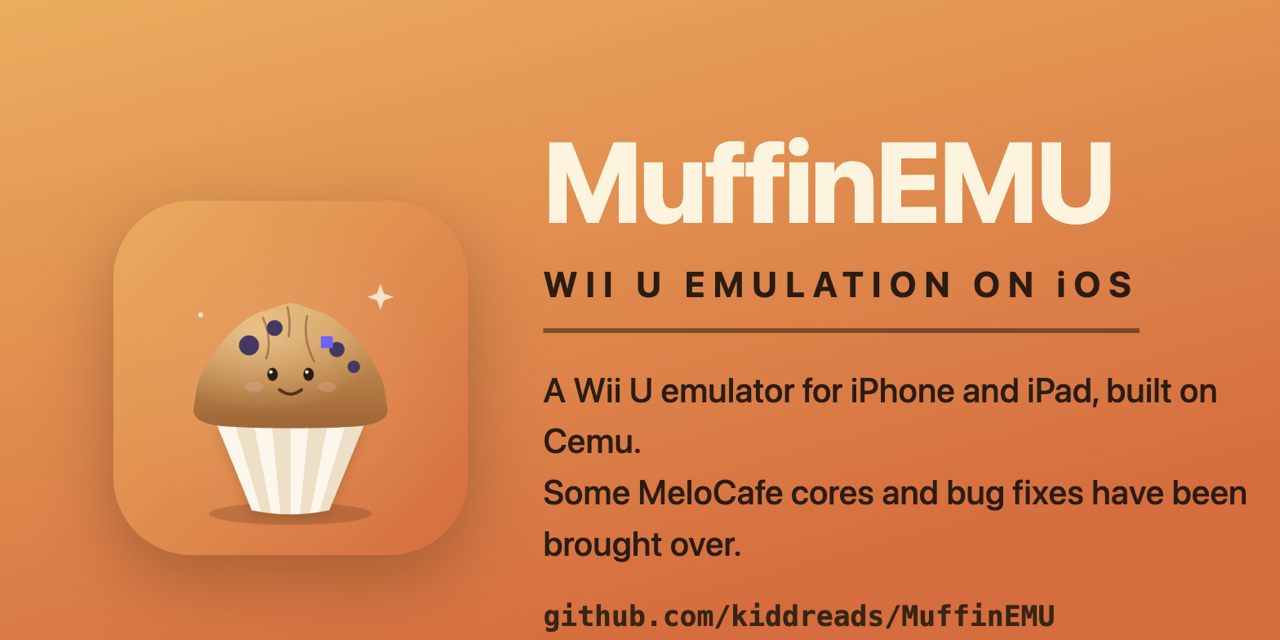
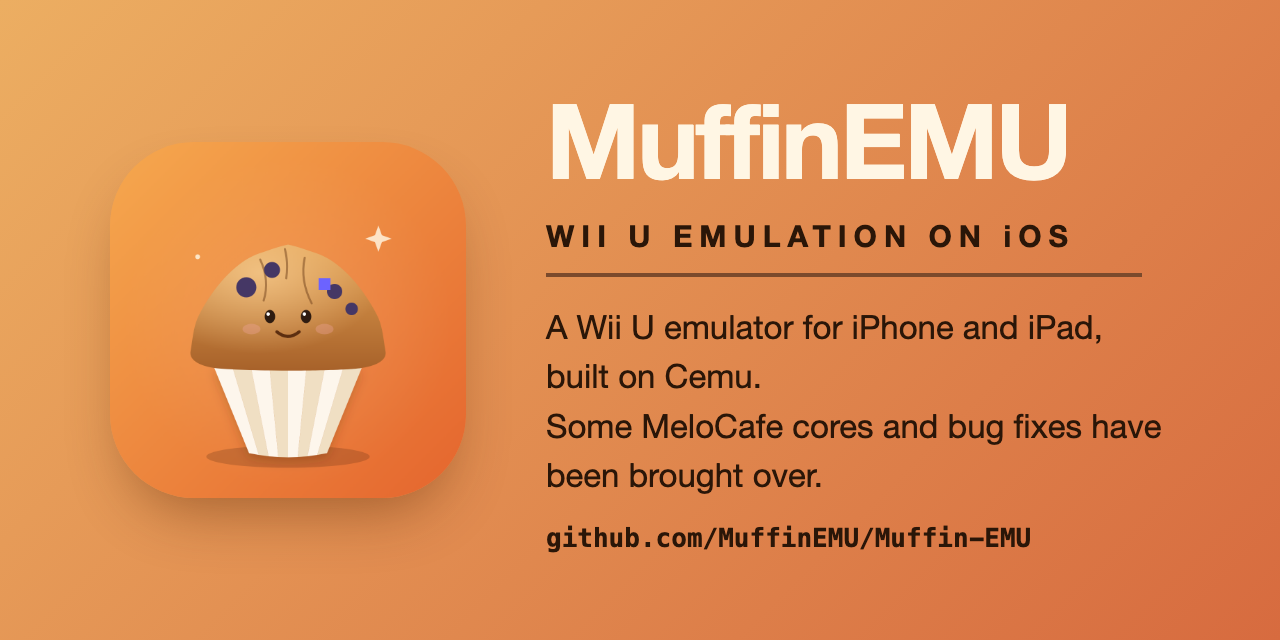
Link preview image and alt text: drop the old repository URL, describe the images
The social preview image still showed github.com/kiddreads/MuffinEMU. It now shows
github.com/MuffinEMU/Muffin-EMU, and the og/twitter image alt text and the README
screenshot alts describe what is in each image.

Release-note: skip

diff --git a/docs/index.html b/docs/index.html
@@ -17,12 +17,12 @@
 <meta property="og:image" content="https://muffinemu.github.io/MuffinEMU/social-preview.png">
 <meta property="og:image:width" content="1280">
 <meta property="og:image:height" content="640">
-<meta property="og:image:alt" content="MuffinEMU, Wii U emulation on iOS: a Wii U emulator for iPhone and iPad, built on Cemu.">
+<meta property="og:image:alt" content="The MuffinEMU muffin icon beside the title "MuffinEMU, Wii U emulation on iOS" and the line "A Wii U emulator for iPhone and iPad, built on Cemu."">
 <meta name="twitter:card" content="summary_large_image">
 <meta name="twitter:title" content="MuffinEMU — Wii U emulator for iPhone and iPad (official site)">
 <meta name="twitter:description" content="MuffinEMU is a free, open-source Wii U emulator for iPhone and iPad, based on Cemu. This is the official site: install it with SideStore, AltStore or TrollStore.">
 <meta name="twitter:image" content="https://muffinemu.github.io/MuffinEMU/social-preview.png">
-<meta name="twitter:image:alt" content="MuffinEMU, Wii U emulation on iOS: a Wii U emulator for iPhone and iPad, built on Cemu.">
+<meta name="twitter:image:alt" content="The MuffinEMU muffin icon beside the title "MuffinEMU, Wii U emulation on iOS" and the line "A Wii U emulator for iPhone and iPad, built on Cemu."">
 <link rel="sitemap" type="application/xml" title="Sitemap" href="https://muffinemu.github.io/MuffinEMU/sitemap.xml">
 <!-- Search engine verification. Google Search Console: add a URL-prefix property for
      https://muffinemu.github.io/MuffinEMU/, choose "HTML tag", and paste its

diff --git a/docs/docs/installation.html b/docs/docs/installation.html
@@ -17,12 +17,12 @@
 <meta property="og:image" content="https://muffinemu.github.io/MuffinEMU/social-preview.png">
 <meta property="og:image:width" content="1280">
 <meta property="og:image:height" content="640">
-<meta property="og:image:alt" content="MuffinEMU, Wii U emulation on iOS: a Wii U emulator for iPhone and iPad, built on Cemu.">
+<meta property="og:image:alt" content="The MuffinEMU muffin icon beside the title "MuffinEMU, Wii U emulation on iOS" and the line "A Wii U emulator for iPhone and iPad, built on Cemu."">
 <meta name="twitter:card" content="summary_large_image">
 <meta name="twitter:title" content="MuffinEMU installation guide — Wii U emulator for iPhone and iPad">
 <meta name="twitter:description" content="How to install MuffinEMU, the Wii U emulator for iPhone and iPad: SideStore, AltStore, LiveContainer or TrollStore, JIT requirements, keys.txt, and building from source.">
 <meta name="twitter:image" content="https://muffinemu.github.io/MuffinEMU/social-preview.png">
-<meta name="twitter:image:alt" content="MuffinEMU, Wii U emulation on iOS: a Wii U emulator for iPhone and iPad, built on Cemu.">
+<meta name="twitter:image:alt" content="The MuffinEMU muffin icon beside the title "MuffinEMU, Wii U emulation on iOS" and the line "A Wii U emulator for iPhone and iPad, built on Cemu."">
 <link rel="sitemap" type="application/xml" title="Sitemap" href="https://muffinemu.github.io/MuffinEMU/sitemap.xml">
 <script type="application/ld+json">
 {

diff --git a/docs/docs/troubleshooting.html b/docs/docs/troubleshooting.html
@@ -17,12 +17,12 @@
 <meta property="og:image" content="https://muffinemu.github.io/MuffinEMU/social-preview.png">
 <meta property="og:image:width" content="1280">
 <meta property="og:image:height" content="640">
-<meta property="og:image:alt" content="MuffinEMU, Wii U emulation on iOS: a Wii U emulator for iPhone and iPad, built on Cemu.">
+<meta property="og:image:alt" content="The MuffinEMU muffin icon beside the title "MuffinEMU, Wii U emulation on iOS" and the line "A Wii U emulator for iPhone and iPad, built on Cemu."">
 <meta name="twitter:card" content="summary_large_image">
 <meta name="twitter:title" content="MuffinEMU troubleshooting — Wii U emulator for iPhone and iPad">
 <meta name="twitter:description" content="MuffinEMU troubleshooting for iPhone and iPad: encrypted Wii U games not launching, JIT not attaching, save states refusing to load, TV output, and logs for a bug report.">
 <meta name="twitter:image" content="https://muffinemu.github.io/MuffinEMU/social-preview.png">
-<meta name="twitter:image:alt" content="MuffinEMU, Wii U emulation on iOS: a Wii U emulator for iPhone and iPad, built on Cemu.">
+<meta name="twitter:image:alt" content="The MuffinEMU muffin icon beside the title "MuffinEMU, Wii U emulation on iOS" and the line "A Wii U emulator for iPhone and iPad, built on Cemu."">
 <link rel="sitemap" type="application/xml" title="Sitemap" href="https://muffinemu.github.io/MuffinEMU/sitemap.xml">
 <script type="application/ld+json">
 {

diff --git a/docs/docs/index.html b/docs/docs/index.html
@@ -17,12 +17,12 @@
 <meta property="og:image" content="https://muffinemu.github.io/MuffinEMU/social-preview.png">
 <meta property="og:image:width" content="1280">
 <meta property="og:image:height" content="640">
-<meta property="og:image:alt" content="MuffinEMU, Wii U emulation on iOS: a Wii U emulator for iPhone and iPad, built on Cemu.">
+<meta property="og:image:alt" content="The MuffinEMU muffin icon beside the title "MuffinEMU, Wii U emulation on iOS" and the line "A Wii U emulator for iPhone and iPad, built on Cemu."">
 <meta name="twitter:card" content="summary_large_image">
 <meta name="twitter:title" content="MuffinEMU documentation — Wii U emulator for iPhone and iPad">
 <meta name="twitter:description" content="MuffinEMU documentation: installation, features, screen layout, save states, controls, themes, troubleshooting and FAQ for the Wii U emulator for iPhone and iPad.">
 <meta name="twitter:image" content="https://muffinemu.github.io/MuffinEMU/social-preview.png">
-<meta name="twitter:image:alt" content="MuffinEMU, Wii U emulation on iOS: a Wii U emulator for iPhone and iPad, built on Cemu.">
+<meta name="twitter:image:alt" content="The MuffinEMU muffin icon beside the title "MuffinEMU, Wii U emulation on iOS" and the line "A Wii U emulator for iPhone and iPad, built on Cemu."">
 <link rel="sitemap" type="application/xml" title="Sitemap" href="https://muffinemu.github.io/MuffinEMU/sitemap.xml">
 <script type="application/ld+json">
 {

diff --git a/docs/docs/features.html b/docs/docs/features.html
@@ -17,12 +17,12 @@
 <meta property="og:image" content="https://muffinemu.github.io/MuffinEMU/social-preview.png">
 <meta property="og:image:width" content="1280">
 <meta property="og:image:height" content="640">
-<meta property="og:image:alt" content="MuffinEMU, Wii U emulation on iOS: a Wii U emulator for iPhone and iPad, built on Cemu.">
+<meta property="og:image:alt" content="The MuffinEMU muffin icon beside the title "MuffinEMU, Wii U emulation on iOS" and the line "A Wii U emulator for iPhone and iPad, built on Cemu."">
 <meta name="twitter:card" content="summary_large_image">
 <meta name="twitter:title" content="MuffinEMU features — Wii U emulator for iPhone and iPad">
 <meta name="twitter:description" content="Everything MuffinEMU, the Wii U emulator for iPhone and iPad, does: library and importing, on-screen play, look and feel, diagnostics, and what runs under the hood.">
 <meta name="twitter:image" content="https://muffinemu.github.io/MuffinEMU/social-preview.png">
-<meta name="twitter:image:alt" content="MuffinEMU, Wii U emulation on iOS: a Wii U emulator for iPhone and iPad, built on Cemu.">
+<meta name="twitter:image:alt" content="The MuffinEMU muffin icon beside the title "MuffinEMU, Wii U emulation on iOS" and the line "A Wii U emulator for iPhone and iPad, built on Cemu."">
 <link rel="sitemap" type="application/xml" title="Sitemap" href="https://muffinemu.github.io/MuffinEMU/sitemap.xml">
 <script type="application/ld+json">
 {

diff --git a/docs/docs/controls.html b/docs/docs/controls.html
@@ -17,12 +17,12 @@
 <meta property="og:image" content="https://muffinemu.github.io/MuffinEMU/social-preview.png">
 <meta property="og:image:width" content="1280">
 <meta property="og:image:height" content="640">
-<meta property="og:image:alt" content="MuffinEMU, Wii U emulation on iOS: a Wii U emulator for iPhone and iPad, built on Cemu.">
+<meta property="og:image:alt" content="The MuffinEMU muffin icon beside the title "MuffinEMU, Wii U emulation on iOS" and the line "A Wii U emulator for iPhone and iPad, built on Cemu."">
 <meta name="twitter:card" content="summary_large_image">
 <meta name="twitter:title" content="MuffinEMU controls and GamePad — Wii U emulator for iPhone and iPad">
 <meta name="twitter:description" content="MuffinEMU&#x27;s measured on-screen Wii U GamePad for iPhone and iPad: hide-controls, comfort controls, Melo-Controller, and the 20 controller skins.">
 <meta name="twitter:image" content="https://muffinemu.github.io/MuffinEMU/social-preview.png">
-<meta name="twitter:image:alt" content="MuffinEMU, Wii U emulation on iOS: a Wii U emulator for iPhone and iPad, built on Cemu.">
+<meta name="twitter:image:alt" content="The MuffinEMU muffin icon beside the title "MuffinEMU, Wii U emulation on iOS" and the line "A Wii U emulator for iPhone and iPad, built on Cemu."">
 <link rel="sitemap" type="application/xml" title="Sitemap" href="https://muffinemu.github.io/MuffinEMU/sitemap.xml">
 <script type="application/ld+json">
 {

diff --git a/docs/docs/faq.html b/docs/docs/faq.html
@@ -17,12 +17,12 @@
 <meta property="og:image" content="https://muffinemu.github.io/MuffinEMU/social-preview.png">
 <meta property="og:image:width" content="1280">
 <meta property="og:image:height" content="640">
-<meta property="og:image:alt" content="MuffinEMU, Wii U emulation on iOS: a Wii U emulator for iPhone and iPad, built on Cemu.">
+<meta property="og:image:alt" content="The MuffinEMU muffin icon beside the title "MuffinEMU, Wii U emulation on iOS" and the line "A Wii U emulator for iPhone and iPad, built on Cemu."">
 <meta name="twitter:card" content="summary_large_image">
 <meta name="twitter:title" content="MuffinEMU FAQ — Wii U emulator for iPhone and iPad">
 <meta name="twitter:description" content="MuffinEMU FAQ: what it is, the official site, keys, install methods, compatibility, controllers, licensing and bug reports for the Wii U emulator for iPhone and iPad.">
 <meta name="twitter:image" content="https://muffinemu.github.io/MuffinEMU/social-preview.png">
-<meta name="twitter:image:alt" content="MuffinEMU, Wii U emulation on iOS: a Wii U emulator for iPhone and iPad, built on Cemu.">
+<meta name="twitter:image:alt" content="The MuffinEMU muffin icon beside the title "MuffinEMU, Wii U emulation on iOS" and the line "A Wii U emulator for iPhone and iPad, built on Cemu."">
 <link rel="sitemap" type="application/xml" title="Sitemap" href="https://muffinemu.github.io/MuffinEMU/sitemap.xml">
 <script type="application/ld+json">
 {

diff --git a/docs/docs/themes.html b/docs/docs/themes.html
@@ -17,12 +17,12 @@
 <meta property="og:image" content="https://muffinemu.github.io/MuffinEMU/social-preview.png">
 <meta property="og:image:width" content="1280">
 <meta property="og:image:height" content="640">
-<meta property="og:image:alt" content="MuffinEMU, Wii U emulation on iOS: a Wii U emulator for iPhone and iPad, built on Cemu.">
+<meta property="og:image:alt" content="The MuffinEMU muffin icon beside the title "MuffinEMU, Wii U emulation on iOS" and the line "A Wii U emulator for iPhone and iPad, built on Cemu."">
 <meta name="twitter:card" content="summary_large_image">
 <meta name="twitter:title" content="MuffinEMU themes and icons — Wii U emulator for iPhone and iPad">
 <meta name="twitter:description" content="All 31 MuffinEMU themes and app icons with their colour values, and the three that unlock with a code. MuffinEMU is a Wii U emulator for iPhone and iPad.">
 <meta name="twitter:image" content="https://muffinemu.github.io/MuffinEMU/social-preview.png">
-<meta name="twitter:image:alt" content="MuffinEMU, Wii U emulation on iOS: a Wii U emulator for iPhone and iPad, built on Cemu.">
+<meta name="twitter:image:alt" content="The MuffinEMU muffin icon beside the title "MuffinEMU, Wii U emulation on iOS" and the line "A Wii U emulator for iPhone and iPad, built on Cemu."">
 <link rel="sitemap" type="application/xml" title="Sitemap" href="https://muffinemu.github.io/MuffinEMU/sitemap.xml">
 <script type="application/ld+json">
 {

diff --git a/docs/docs/screen-layout.html b/docs/docs/screen-layout.html
@@ -17,12 +17,12 @@
 <meta property="og:image" content="https://muffinemu.github.io/MuffinEMU/social-preview.png">
 <meta property="og:image:width" content="1280">
 <meta property="og:image:height" content="640">
-<meta property="og:image:alt" content="MuffinEMU, Wii U emulation on iOS: a Wii U emulator for iPhone and iPad, built on Cemu.">
+<meta property="og:image:alt" content="The MuffinEMU muffin icon beside the title "MuffinEMU, Wii U emulation on iOS" and the line "A Wii U emulator for iPhone and iPad, built on Cemu."">
 <meta name="twitter:card" content="summary_large_image">
 <meta name="twitter:title" content="MuffinEMU screen layout — Wii U emulator for iPhone and iPad">
 <meta name="twitter:description" content="How MuffinEMU, the Wii U emulator for iPhone and iPad, shows the Wii U&#x27;s TV and GamePad screens on one device screen or a second display.">
 <meta name="twitter:image" content="https://muffinemu.github.io/MuffinEMU/social-preview.png">
-<meta name="twitter:image:alt" content="MuffinEMU, Wii U emulation on iOS: a Wii U emulator for iPhone and iPad, built on Cemu.">
+<meta name="twitter:image:alt" content="The MuffinEMU muffin icon beside the title "MuffinEMU, Wii U emulation on iOS" and the line "A Wii U emulator for iPhone and iPad, built on Cemu."">
 <link rel="sitemap" type="application/xml" title="Sitemap" href="https://muffinemu.github.io/MuffinEMU/sitemap.xml">
 <script type="application/ld+json">
 {

diff --git a/docs/docs/licenses.html b/docs/docs/licenses.html
@@ -17,12 +17,12 @@
 <meta property="og:image" content="https://muffinemu.github.io/MuffinEMU/social-preview.png">
 <meta property="og:image:width" content="1280">
 <meta property="og:image:height" content="640">
-<meta property="og:image:alt" content="MuffinEMU, Wii U emulation on iOS: a Wii U emulator for iPhone and iPad, built on Cemu.">
+<meta property="og:image:alt" content="The MuffinEMU muffin icon beside the title "MuffinEMU, Wii U emulation on iOS" and the line "A Wii U emulator for iPhone and iPad, built on Cemu."">
 <meta name="twitter:card" content="summary_large_image">
 <meta name="twitter:title" content="MuffinEMU open-source licences — Wii U emulator for iPhone and iPad">
 <meta name="twitter:description" content="The open-source licences of MuffinEMU, the Wii U emulator for iPhone and iPad, and of the software it includes.">
 <meta name="twitter:image" content="https://muffinemu.github.io/MuffinEMU/social-preview.png">
-<meta name="twitter:image:alt" content="MuffinEMU, Wii U emulation on iOS: a Wii U emulator for iPhone and iPad, built on Cemu.">
+<meta name="twitter:image:alt" content="The MuffinEMU muffin icon beside the title "MuffinEMU, Wii U emulation on iOS" and the line "A Wii U emulator for iPhone and iPad, built on Cemu."">
 <link rel="sitemap" type="application/xml" title="Sitemap" href="https://muffinemu.github.io/MuffinEMU/sitemap.xml">
 <script type="application/ld+json">
 {

diff --git a/docs/docs/save-states.html b/docs/docs/save-states.html
@@ -17,12 +17,12 @@
 <meta property="og:image" content="https://muffinemu.github.io/MuffinEMU/social-preview.png">
 <meta property="og:image:width" content="1280">
 <meta property="og:image:height" content="640">
-<meta property="og:image:alt" content="MuffinEMU, Wii U emulation on iOS: a Wii U emulator for iPhone and iPad, built on Cemu.">
+<meta property="og:image:alt" content="The MuffinEMU muffin icon beside the title "MuffinEMU, Wii U emulation on iOS" and the line "A Wii U emulator for iPhone and iPad, built on Cemu."">
 <meta name="twitter:card" content="summary_large_image">
 <meta name="twitter:title" content="MuffinEMU save states — Wii U emulator for iPhone and iPad">
 <meta name="twitter:description" content="MuffinEMU save states: 4 slots per game in the Wii U emulator for iPhone and iPad, and the same-session-only limit.">
 <meta name="twitter:image" content="https://muffinemu.github.io/MuffinEMU/social-preview.png">
-<meta name="twitter:image:alt" content="MuffinEMU, Wii U emulation on iOS: a Wii U emulator for iPhone and iPad, built on Cemu.">
+<meta name="twitter:image:alt" content="The MuffinEMU muffin icon beside the title "MuffinEMU, Wii U emulation on iOS" and the line "A Wii U emulator for iPhone and iPad, built on Cemu."">
 <link rel="sitemap" type="application/xml" title="Sitemap" href="https://muffinemu.github.io/MuffinEMU/sitemap.xml">
 <script type="application/ld+json">
 {

diff --git a/README.md b/README.md
@@ -83,11 +83,11 @@ Both IPAs are attached to every [release](https://github.com/MuffinEMU/Muffin-EM
 ## Screenshots
 
 <p align="center">
-  <img src="docs/assets/screenshots/ipad/01-landscape-2.png" width="48%" alt="MuffinEMU on iPad, landscape">
-  <img src="docs/assets/screenshots/ipad/02-landscape-3.png" width="48%" alt="MuffinEMU on iPad, landscape">
+  <img src="docs/assets/screenshots/ipad/01-landscape-2.png" width="48%" alt="MuffinEMU on iPad in landscape: the game library with cover art for Captain Toad, Mario Kart 8, Zelda and more, with favourites at the top">
+  <img src="docs/assets/screenshots/ipad/02-landscape-3.png" width="48%" alt="MuffinEMU on iPad in landscape: a game card for Mario Kart 8 with cover art, game info and a Play button">
 </p>
 <p align="center">
-  <img src="docs/assets/screenshots/ipad/03-portrait-1.png" width="40%" alt="MuffinEMU on iPad, portrait">
+  <img src="docs/assets/screenshots/ipad/03-portrait-1.png" width="40%" alt="MuffinEMU on iPad in portrait: the game library as a grid of Wii U cover art, with favourites at the top">
 </p>
 
 ## Status
